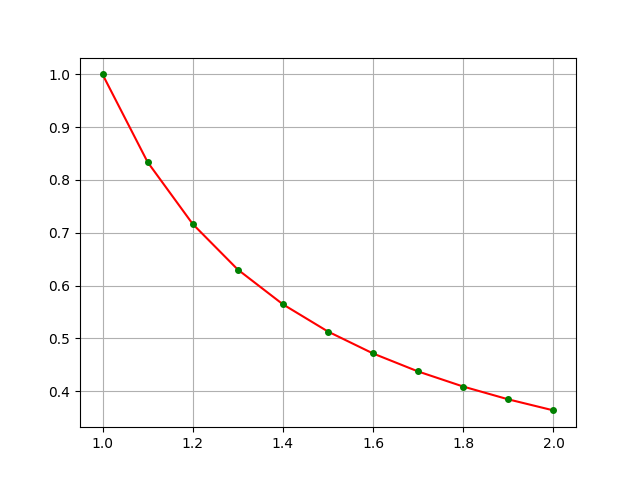
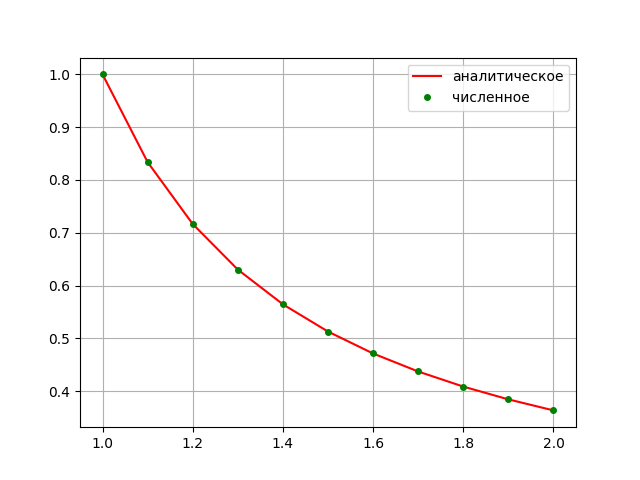
small corrections

Changed region(s): [[0.625, 0.125, 0.875, 0.2188]]

diff --git a/Runge-Kutta/painter.py b/Runge-Kutta/painter.py
@@ -29,7 +29,7 @@ def draw_graphic(a, b, step, y0, epsilon, fxy, yx):
 
     x = np.arange(a, b + step, step)
     y_exact = func_x(x, yx)
-    plt.plot(x, y_exact, color='red')
+    plt.plot(x, y_exact, color='red', label="аналитическое")
     plt.grid()
 
     y_appr = np.zeros(len(x))
@@ -49,9 +49,10 @@ def draw_graphic(a, b, step, y0, epsilon, fxy, yx):
         y_appr[i] = runge_kutta(x[i], y_appr[i-1], fxy, h)
         i += 1
 
-    for i in range(0, len(x), int(step / h)):
-        plt.plot(x[i], y_appr[i], 'go', markersize=4)
+    plt.plot([x[i] for i in range(0, len(x), int(step / h))], [y_appr[i] for i in range(0, len(x), int(step / h))],\
+              'go', markersize=4, label="численное")
 
+    plt.legend()
     plt.savefig("Runge-Kutta/graphic.png")
 
     return h, x, y_exact, y_appr

diff --git a/Runge-Kutta/interface.py b/Runge-Kutta/interface.py
@@ -46,12 +46,12 @@ epsilon = "0.0001"
 graphic = PhotoImage()
 graph_label = Label()
 
-columns = ("x", "y точное", "y приближ.", "разница")
+columns = ("x", "y точное", "y численное", "разница")
 table = ttk.Treeview(columns=columns, show="headings", height=15)
 
 table.heading("x", text="x")
 table.heading("y точное", text="y точное")
-table.heading("y приближ.", text="y приближ.")
+table.heading("y численное", text="y численное")
 table.heading("разница", text="разница")
 
 
